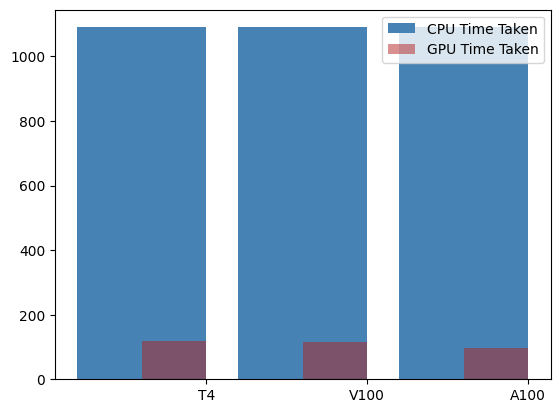
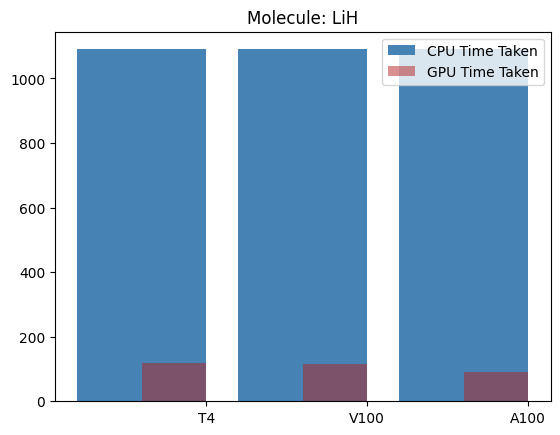
Update conclusion and images

diff --git a/README.md b/README.md
@@ -120,8 +120,13 @@ Using the optimum setup for VQE we benchmark the performance of VQE qiskit imple
 <img src="./images/performance_comparison_LiH.png"/>
 
 
+Benchmarking results
 
-  - The qiskit `cudastatevec` GPU estimator outperforms qiskit estimator in terms of error and time. 
-  - The time and error comparison based on different resilience levels in qiskit is validated.
-  - The best performing optimizer in terms of performance and error for VQE H2 use case is `SLSQP`
+| Molecule | Performance on T4 | Performance on V100 | Performance on A100 |
+| -------- | ----------------- | ------------------- | ------------------- |
+| LiH      | 9x                | 9.5x                | 12.1x               |
+| H2       | 16x               | 23x                 | 36.25x              |
+
+
+Using qiskit's GPU enable Aer simulators we succesfully benchmarked VQE algorithms. Achieving a maxium performance of `36x` in case of H2 molecule and `12x` in case of LiH molecule. 
 
